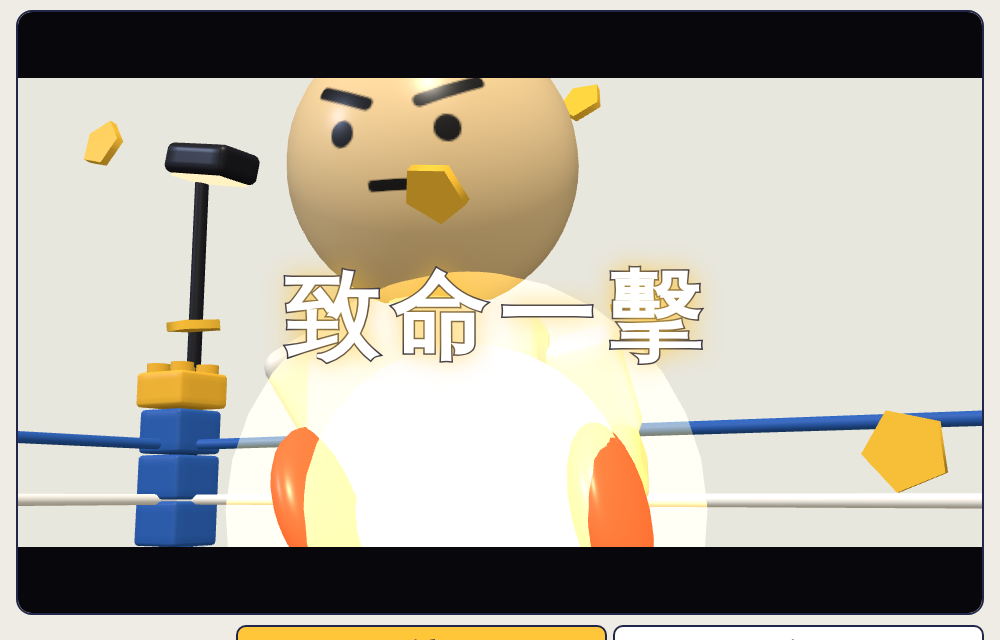
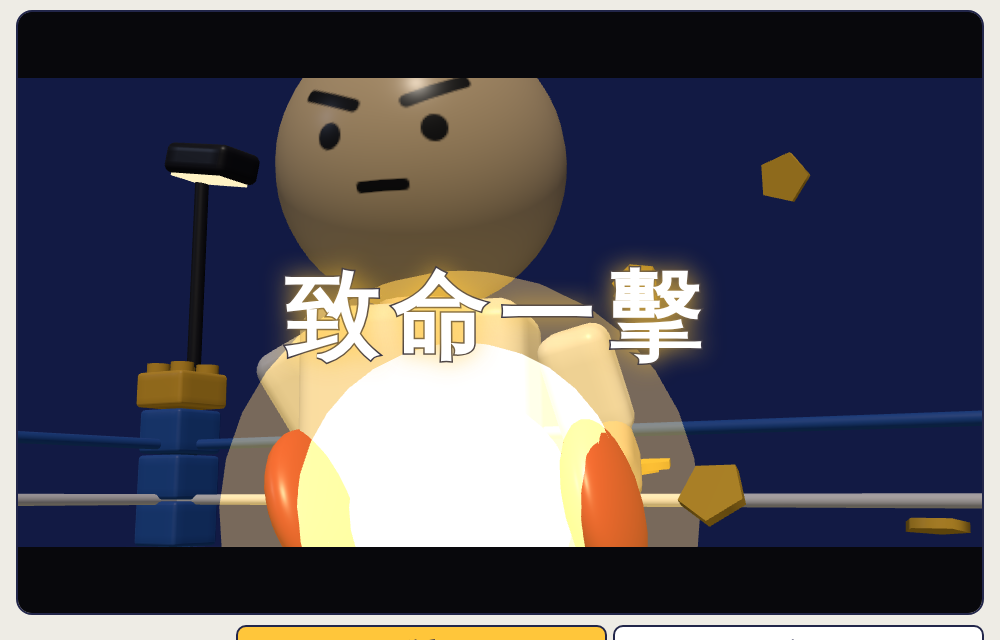
放大絕招時背景變暗（深藍夜色）
Claude-Session: https://claude.ai/code/session_01W9KMAiYuezKnkxaZ7ikoB8

diff --git a/src/game/battle/BattleController.ts b/src/game/battle/BattleController.ts
@@ -28,6 +28,7 @@ import { headCenterY, PART_DEFS } from '../puppet/parts';
 import { ScoreLedger, type ScoreLine } from '../scoring/ScoreLedger';
 import { ARENA_BACKGROUND, buildArena } from '../three/arena';
 import { computeFrame } from '../three/camera';
+import { srgb } from '../three/color';
 import { projectToScreen } from '../three/project';
 import { SceneHost } from '../three/sceneHost';
 
@@ -38,6 +39,8 @@ const BIG_HITS = new Set<MoveId>(['uppercut', 'shoe', 'stomp', 'spin', 'flykick'
 
 /** 收尾時間背景轉暖的目標色 */
 const WARM_BACKGROUND = '#EFD9C2';
+/** 放大絕招時的深藍夜色背景 */
+const FINISHER_BACKGROUND = '#121A44';
 
 export type BattlePhase = 'ask' | 'finisher' | 'countdown' | 'fight' | 'ended' | 'apology' | 'worthy' | 'ending';
 /** 結局演出：1 原諒、2 到此為止、5 還沒準備好 */
@@ -117,7 +120,7 @@ export class BattleController {
   /** 已經問過致命一擊的回合長度（每次延長後在剩 15 秒時再問一次） */
   private askedLen = 0;
   /** 致命一擊演出：已觸發到第幾個節點、目前鏡頭、對手所在方向、連打計數 */
-  private fin = { step: 0, shot: -1, side: 1 as 1 | -1, aura: 0, koAt: -1 };
+  private fin = { step: 0, shot: -1, side: 1 as 1 | -1, aura: 0, koAt: -1, koT: -1 };
   private beam: EnergyBeam | null = null;
   private camCut = false;
   private shake = 0;
@@ -128,6 +131,10 @@ export class BattleController {
   private disposed = false;
   private bgCool = new Color(ARENA_BACKGROUND);
   private bgWarm = new Color(WARM_BACKGROUND);
+  private bgDark = new Color(FINISHER_BACKGROUND);
+  /** 環境光原色與絕招時的夜色 */
+  private hemiBase = srgb('#FFFFFF');
+  private hemiNight = srgb('#2A3C9C');
   private director: DialogueDirector;
   private bubble: DialogueBubble;
   private hits = 0;
@@ -572,7 +579,7 @@ export class BattleController {
     p.vx = 0;
     this.beam?.dispose();
     this.beam = new EnergyBeam(this.host.scene);
-    this.fin = { step: 0, shot: -1, side, aura: 0, koAt: -1 };
+    this.fin = { step: 0, shot: -1, side, aura: 0, koAt: -1, koT: -1 };
     this.emitHud(true);
   }
 
@@ -640,11 +647,24 @@ export class BattleController {
     if (fin.step === 5 && fin.koAt < 0) fin.koAt = t + 0.35;
     if (fin.step >= 4 && fin.step < 6 && ((fin.koAt >= 0 && t >= fin.koAt) || t >= F.koLatest)) {
       fin.step = 6;
+      fin.koT = t;
       this.ledger.bonus(F.score);
       this.words.add(`+${F.score} 致命一擊`, p.x * 0.3, 6, '#FFC63A', 1.1, 'score');
       for (let i = 0; i < 4; i++) this.particles.burst(new Vector3(p.x + (Math.random() - 0.5) * 3, 1 + Math.random() * 3, 0.6), 'star', 8);
       this.kick(1);
     }
+
+    // 放大絕招時整個場景變暗（深藍夜色），只留主光打在兩人身上，光波更亮眼；K.O. 後慢慢亮回來
+    const dark = fin.koT < 0 ? smooth(t / F.darkIn) : 1 - smooth((t - fin.koT) / F.darkOut);
+    this.setWarmth(0);
+    const bg = this.host.scene.background as Color;
+    bg.lerp(this.bgDark, dark * F.darkAmount);
+    (this.host.scene.fog as Fog).color.copy(bg);
+    const L = this.host.lights;
+    L.hemi.color.copy(this.hemiBase).lerp(this.hemiNight, dark);
+    L.hemi.intensity *= 1 - 0.55 * dark;
+    L.fill.intensity *= 1 - 0.85 * dark;
+    L.key.intensity *= 1 - 0.4 * dark;
 
     // 運鏡：每個鏡頭切一次（cut），鏡頭內平滑推移
     const shot = t < F.fire ? 0 : t < F.hit + 0.25 ? 1 : fin.step < 5 ? 2 : t < (fin.koAt < 0 ? F.koLatest : fin.koAt) + 0.8 ? 3 : 4;
@@ -713,6 +733,7 @@ export class BattleController {
     this.beam = null;
     this.player.rig.root.position.z = 0;
     this.host.lights.hemi.visible = this.host.lights.key.visible = this.host.lights.fill.visible = true;
+    this.host.lights.hemi.color.copy(this.hemiBase);
   }
 
   /** 道歉轉場：停止攻擊與 AI、清掉殘留物，積木人走回中央單膝跪地，燈光轉暖、鏡頭推近。 */

diff --git a/src/config/round.config.ts b/src/config/round.config.ts
@@ -51,6 +51,10 @@ export const FINISHER = {
   beamRadius: 0.95,
   /** 摔回地面後幾秒顯示 K.O.（若沒摔到，最晚這個時間） */
   koLatest: 4.9,
+  /** 背景變暗：幾秒內暗下來、K.O. 後幾秒亮回來、最暗程度（0～1） */
+  darkIn: 0.6,
+  darkOut: 1.4,
+  darkAmount: 1,
   /** 終結技加分 */
   score: 100,
 } as const;

diff --git a/PLAN.md b/PLAN.md
@@ -267,3 +267,4 @@ interface HitEvent { hitId: HitId; moveId: MoveId; segment: number; at: number; 
 - 回合固定 3 分鐘（拿掉 3／5 分鐘選項，變更 SPEC 第 8 節）。剩 15 秒時暫停計時與畫面，問「要給{他}致命一擊嗎？」：「繼續打」延長 1 分鐘、剩 15 秒再問一次（可重複）；「致命一擊」播放終結技演出，擊倒後直接進道歉。開發用 ?round 短於 15 秒時不問、照原本時間到結束。詢問與演出期間不能暫停、不能提前結束。
 - 終結技「正義光波」（使用者提供參考圖）：只取格鬥類常見的「集氣光球 → 粗光柱 → 對手被轟上天」表現，名稱、喊聲、姿勢皆為原創，不使用參考作品的招式名。流程：低角度特寫集氣（字幕「致命一擊」、上下黑邊）→ 越肩鏡頭推出光波 → 慢動作命中 → 仰角跟拍對手飛上天、變成天邊的星星 → 摔回地面噴飛 →「K.O.!」＋100 分 → 環繞拉遠，對手組回後坐在地上頭暈。演出開始時兩人移到場中央兩側，避免鏡頭被角柱擋住。
 - 收尾時間（最後 30 秒降溫）移除（變更 SPEC 第 13 節節奏曲線）：降溫改由道歉轉場的燈光轉暖承接。
+- 放大絕招時場景變暗：背景、霧轉為深藍夜色，環境光染成夜藍並調暗，主光保留打在兩人身上；K.O. 後 1.4 秒內亮回來。
